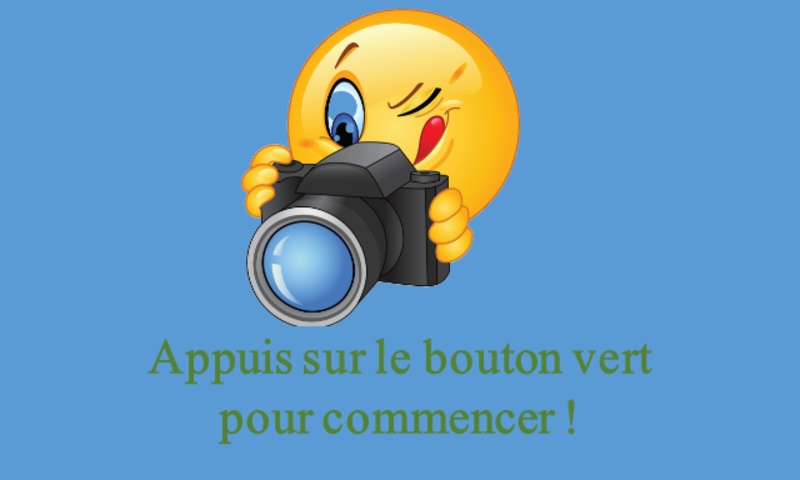
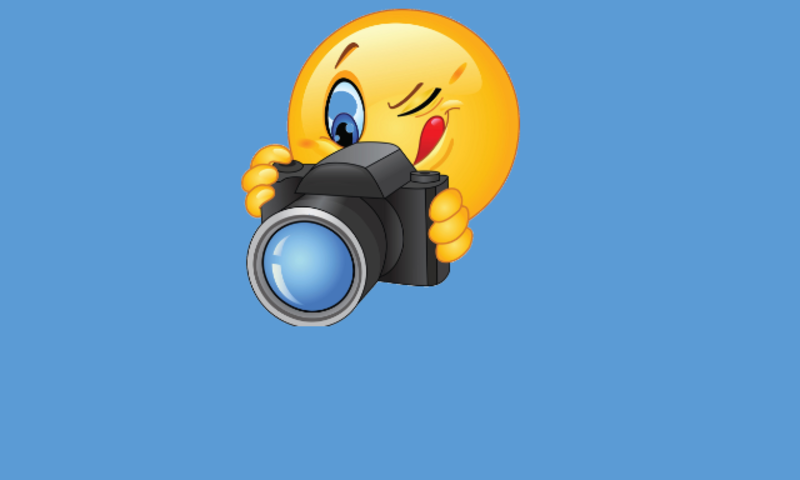
piwigo sync

Changed region(s): [[0.1875, 0.6875, 0.8125, 0.8125], [0.25, 0.8125, 0.7188, 0.9375]]

diff --git a/booth_tk.py b/booth_tk.py
@@ -41,7 +41,7 @@ class Booth():
                  screen_height=480,
                  camera_width=640,
                  camera_heigh=480,
-                 countdown=1,
+                 countdown=3,
                  green_button_pin=26,
                  red_button_pin=16):
         self.countdown = countdown
@@ -83,7 +83,26 @@ class Booth():
         # add images
         self.imgs = {}
         self.imgs["home"] = Image.open("{}/booth0.png".format(wd))
+        d = ImageDraw.Draw(self.imgs["home"])
+        fnt = ImageFont.truetype('Pillow/Tests/fonts/FreeMonoBold.ttf', 37)
+        d.text((80, 340), "Appuyez sur le bouton VERT\n pour commencer !",
+               font=fnt,
+               fill=(0, 128, 0))
         self.imgs["smile"] = Image.open("{}/booth1.png".format(wd))
+        self.imgs["end"] = Image.open("{}/end.png".format(wd))
+        d = ImageDraw.Draw(self.imgs["end"])
+        d.text((40, 15), "Les photos sont disponibles sur \n    https://photo.caye.fr ;)",
+               font=fnt,
+               fill=(220,20,60,255))
+        d.text((120, 390), "Bouton VERT pour continuer.",
+               font=fnt,
+               fill=(0, 128, 0))
+        self.imgs["print"] = Image.open("{}/print.png".format(wd))
+        d = ImageDraw.Draw(self.imgs["print"])
+        d.text((10, 380), "Les photos sont en court d'impression.....",
+               font=fnt,
+               fill=(220,20,60,255))
+
         # create canvas
         self.canvas = tk.Canvas(self.root,
                                 width=self.w,
@@ -138,8 +157,7 @@ class Booth():
 
     def show_toprint(self):
         # load image
-        showprint_path = "{}/showprint.jpg".format(self.wd)
-        showprint_img = Image.open(showprint_path)
+        showprint_img = Image.open(self.showprint_path)
         # resize
         img_w, img_h = showprint_img.size
         if img_w > self.w or img_h > self.h:
@@ -151,13 +169,13 @@ class Booth():
         # get a drawing context
         d = ImageDraw.Draw(showprint_img)
         # draw text, half opacity
-        fnt = ImageFont.truetype('Pillow/Tests/fonts/FreeMono.ttf', 30)
-        d.text((50, 200), "BOUTTON VERT : imprimer",
+        fnt = ImageFont.truetype('Pillow/Tests/fonts/FreeMonoBold.ttf', 37)
+        d.text((50, 150), "BOUTTON VERT : imprimer",
                font=fnt,
-               fill=(0, 204, 0, 128))
-        d.text((50, 250), "BOUTTON ROUGE : acceuil",
+               fill=(0, 128, 0))
+        d.text((50, 300), "BOUTTON ROUGE : acceuil",
                font=fnt,
-               fill=(255, 51, 51, 128))
+               fill=(255, 51, 51))
         # show to screen
         self.current_img = ImageTk.PhotoImage(showprint_img)
         self.canvas.itemconfig(self.imagesprite,
@@ -165,15 +183,30 @@ class Booth():
         self.root.update()
         self.logger.info("show toprint")
 
-    def show_smile(self):
-        self.current_img = ImageTk.PhotoImage(self.imgs["smile"])
+    def show_smile(self, write=None, x=100, y=380, size=80):
+        smile_img = self.imgs["smile"].copy()
+        if not write is None:
+            d = ImageDraw.Draw(smile_img)
+            # draw text, half opacity
+            fnt = ImageFont.truetype('Pillow/Tests/fonts/FreeMonoBold.ttf', size)
+            d.text((x, y), write,
+                   font=fnt, fill=(220,20,60,200))
+        self.current_img = ImageTk.PhotoImage(smile_img)
         self.canvas.itemconfig(self.imagesprite,
                                image=self.current_img)
         self.root.update()
         self.logger.info("show smile")
 
     def print_pic(self):
-        self.logger.info("PRINT-TODO")
+        self.logger.info("PRINT")
+        self.current_img = ImageTk.PhotoImage(self.imgs["print"])
+        self.canvas.itemconfig(self.imagesprite,
+                               image=self.current_img)
+        self.root.update()
+        self.logger.info("show end")
+        # to be sure that the montage is over :D
+        self.to_print_p.wait()
+        time.sleep(5)
 
     def user_input(self):
         green_event = False
@@ -197,13 +230,13 @@ class Booth():
         return output
 
     def add_preview_overlay(self, xcoord, ycoord,
-                            fontSize, overlayText):
-        img = Image.new("RGB", (self.c_w, self.c_h))
+                            fontSize, overlayText, color=(32, 178, 170, 210)):
+        img = Image.new("RGBA", (self.c_w, self.c_h), (255, 0, 0, 0))
         draw = ImageDraw.Draw(img)
         draw.font = ImageFont.truetype(
-            "/usr/share/fonts/truetype/freefont/FreeSerif.ttf",
+            'Pillow/Tests/fonts/FreeMonoBold.ttf',
             fontSize)
-        draw.text((xcoord, ycoord), overlayText, (255, 20, 147))
+        draw.text((xcoord, ycoord), overlayText, color)
         if self.overlay_renderer is None:
             self.overlay_renderer = self.camera.add_overlay(img.tobytes(),
                                                             layer=3,
@@ -222,7 +255,7 @@ class Booth():
     def countdown_from(self, countdown):
         s = countdown
         while s > 0:
-            self.add_preview_overlay(300, 100, 240, str(s))
+            self.add_preview_overlay(250, 100, 240, str(s))
             time.sleep(1)
             s = s - 1
 
@@ -238,25 +271,45 @@ class Booth():
         self.camera.capture(image_name, resize=(self.c_w, self.c_h))
         self.camera.start_preview()
 
+    def sync_withcloud(self):
+        self.logger.info("Sync with piwigo cloud")
+        p = subprocess.Popen(["sh",
+                              '{}/sync_piwigo.sh'.format(self.wd),
+                              self.photo_path],
+                             stdout=subprocess.PIPE, stderr=subprocess.STDOUT)
+
     def play(self):
         res_name = time.strftime("%Y%m%d-%H%M%S")+".jpg"
-        res_path = "{}/photos/{}".format(self.wd, res_name)
+        self.photo_path = "{}/photos/{}".format(self.wd, res_name)
+        self.toprint_path = "{}/toprint/{}".format(self.wd, res_name)
         self.show_smile()
         # capture 4 images
         for i in range(1, 5):
             self.countdown_from(self.countdown)
             img = "{}.jpg".format(i)
+            self.show_smile('photo {} / 4 !'.format(i))
             self.capture_image(img)
             time.sleep(1)
 
-        self.add_preview_overlay(150, 200, 55, "Un petit instant :D...")
+        self.camera.stop_preview()
+        self.show_smile("Un petit instant :D...", 40, 380, 50)
         # now merge all the images
-        res_cmd = self.res_cmd + [res_path]
-        self.logger.info(res_cmd)
-        subprocess.call(res_cmd)
-        showprint_path = "{}/showprint.jpg".format(self.wd)
-        subprocess.call(self.show_cmd + [showprint_path])
+        res_cmd = self.res_cmd + [self.toprint_path]
+        self.to_print_p = subprocess.Popen(res_cmd,
+                                           stdout=subprocess.PIPE,
+                                           stderr=subprocess.STDOUT)
+        self.showprint_path = self.photo_path
+        subprocess.call(self.show_cmd + [self.showprint_path])
+        # sync with cloud
+        self.sync_withcloud()
         self.logger.info("Images have been merged.")
+
+    def show_end(self):
+        self.current_img = ImageTk.PhotoImage(self.imgs["end"])
+        self.canvas.itemconfig(self.imagesprite,
+                               image=self.current_img)
+        self.root.update()
+        self.logger.info("show end")
 
     def run(self):
         self.logger.info("new cycle")
@@ -267,6 +320,7 @@ class Booth():
             button = self.user_input()
         self.logger.info("Start camera preview")
         self.camera.start_preview()
+        self.add_preview_overlay(30, 10, 38, "Appuyez sur le bouton vert \n pour prendre 4 photos !", (34,139,34, 255))
         # wait for user to press green button
         button = self.user_input()
         while button != "green":
@@ -280,6 +334,11 @@ class Booth():
             self.print_pic()
         else:
             self.logger.info("do not print the picture")
+        self.show_end()
+        # wait for user to press green button
+        button = self.user_input()
+        while button != "green":
+            button = self.user_input()
 
     def teardown(self):
         self.logger.info("close everything")
